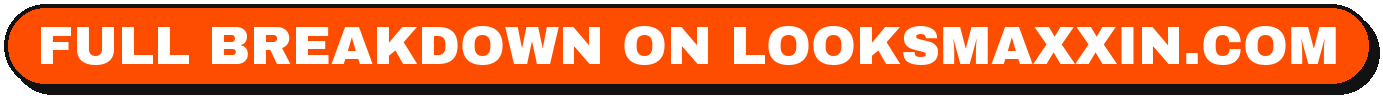
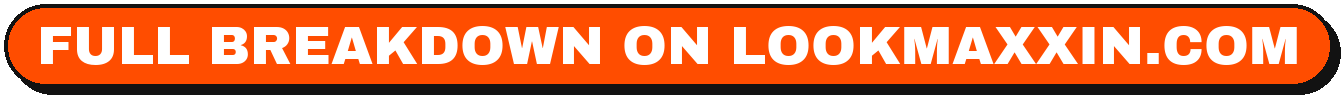
Wiki brand kit: fix LOOKMAXXIN.COM spelling

Changed region(s): [[0.0312, 0.2449, 0.9688, 0.6735]]

diff --git a/wiki/brand/make-watermarks.py b/wiki/brand/make-watermarks.py
@@ -1,4 +1,4 @@
-"""Makes transparent LOOKSMAXXIN.COM watermark PNGs in the site's brand style (Archivo Black, orange #ff4d00,
+"""Makes transparent LOOKMAXXIN.COM watermark PNGs in the site's brand style (Archivo Black, orange #ff4d00,
 hard black offset shadow like the site's buttons). Run: python3 brand/make-watermarks.py  -> brand/watermarks/*.png"""
 from PIL import Image, ImageDraw, ImageFont
 import os, math
@@ -61,13 +61,13 @@ def outlined(text, size, fill, name):
 
 
 made = [
-    pill('LOOKSMAXXIN.COM', 72, ORANGE, WHITE, stroke=0, name='pill-orange.png'),            # main bug: orange bubble, white text
-    pill('LOOKSMAXXIN.COM', 72, ORANGE, INK, name='pill-orange-ink.png'),                     # orange bubble, black text (site button look)
-    pill('LOOKSMAXXIN.COM', 72, CREAM, INK, shadow=ORANGE, name='pill-cream.png'),            # cream bubble, orange shadow (site card look)
-    pill('LOOKSMAXXIN.COM', 72, ORANGE, WHITE, star=True, name='pill-orange-star.png'),       # with the site's star
-    pill('LOOKSMAXXIN.COM', 40, ORANGE, WHITE, name='pill-orange-small.png'),                 # small corner bug
-    outlined('LOOKSMAXXIN.COM', 90, ORANGE, 'text-orange.png'),                               # bare outlined text
-    outlined('LOOKSMAXXIN.COM', 90, WHITE, 'text-white.png'),
-    pill('FULL BREAKDOWN ON LOOKSMAXXIN.COM', 54, ORANGE, WHITE, name='cta-orange.png'),     # end-card / caption call to action
+    pill('LOOKMAXXIN.COM', 72, ORANGE, WHITE, stroke=0, name='pill-orange.png'),            # main bug: orange bubble, white text
+    pill('LOOKMAXXIN.COM', 72, ORANGE, INK, name='pill-orange-ink.png'),                     # orange bubble, black text (site button look)
+    pill('LOOKMAXXIN.COM', 72, CREAM, INK, shadow=ORANGE, name='pill-cream.png'),            # cream bubble, orange shadow (site card look)
+    pill('LOOKMAXXIN.COM', 72, ORANGE, WHITE, star=True, name='pill-orange-star.png'),       # with the site's star
+    pill('LOOKMAXXIN.COM', 40, ORANGE, WHITE, name='pill-orange-small.png'),                 # small corner bug
+    outlined('LOOKMAXXIN.COM', 90, ORANGE, 'text-orange.png'),                               # bare outlined text
+    outlined('LOOKMAXXIN.COM', 90, WHITE, 'text-white.png'),
+    pill('FULL BREAKDOWN ON LOOKMAXXIN.COM', 54, ORANGE, WHITE, name='cta-orange.png'),     # end-card / caption call to action
 ]
 print('\n'.join(os.path.join(OUT, m) for m in made))
